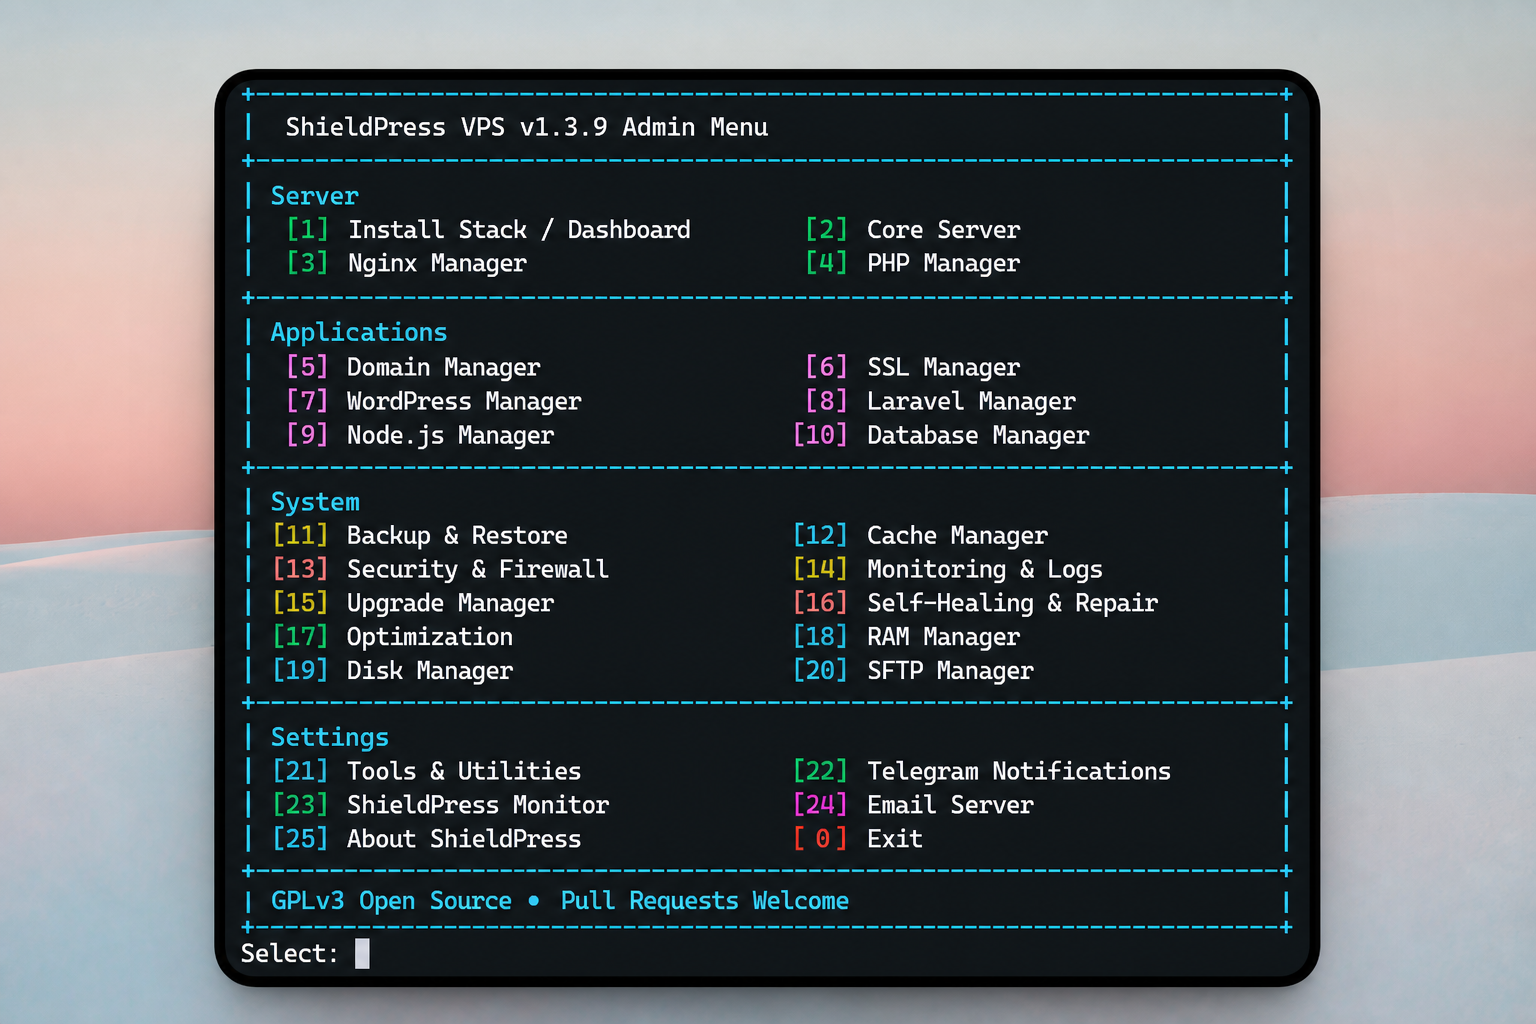
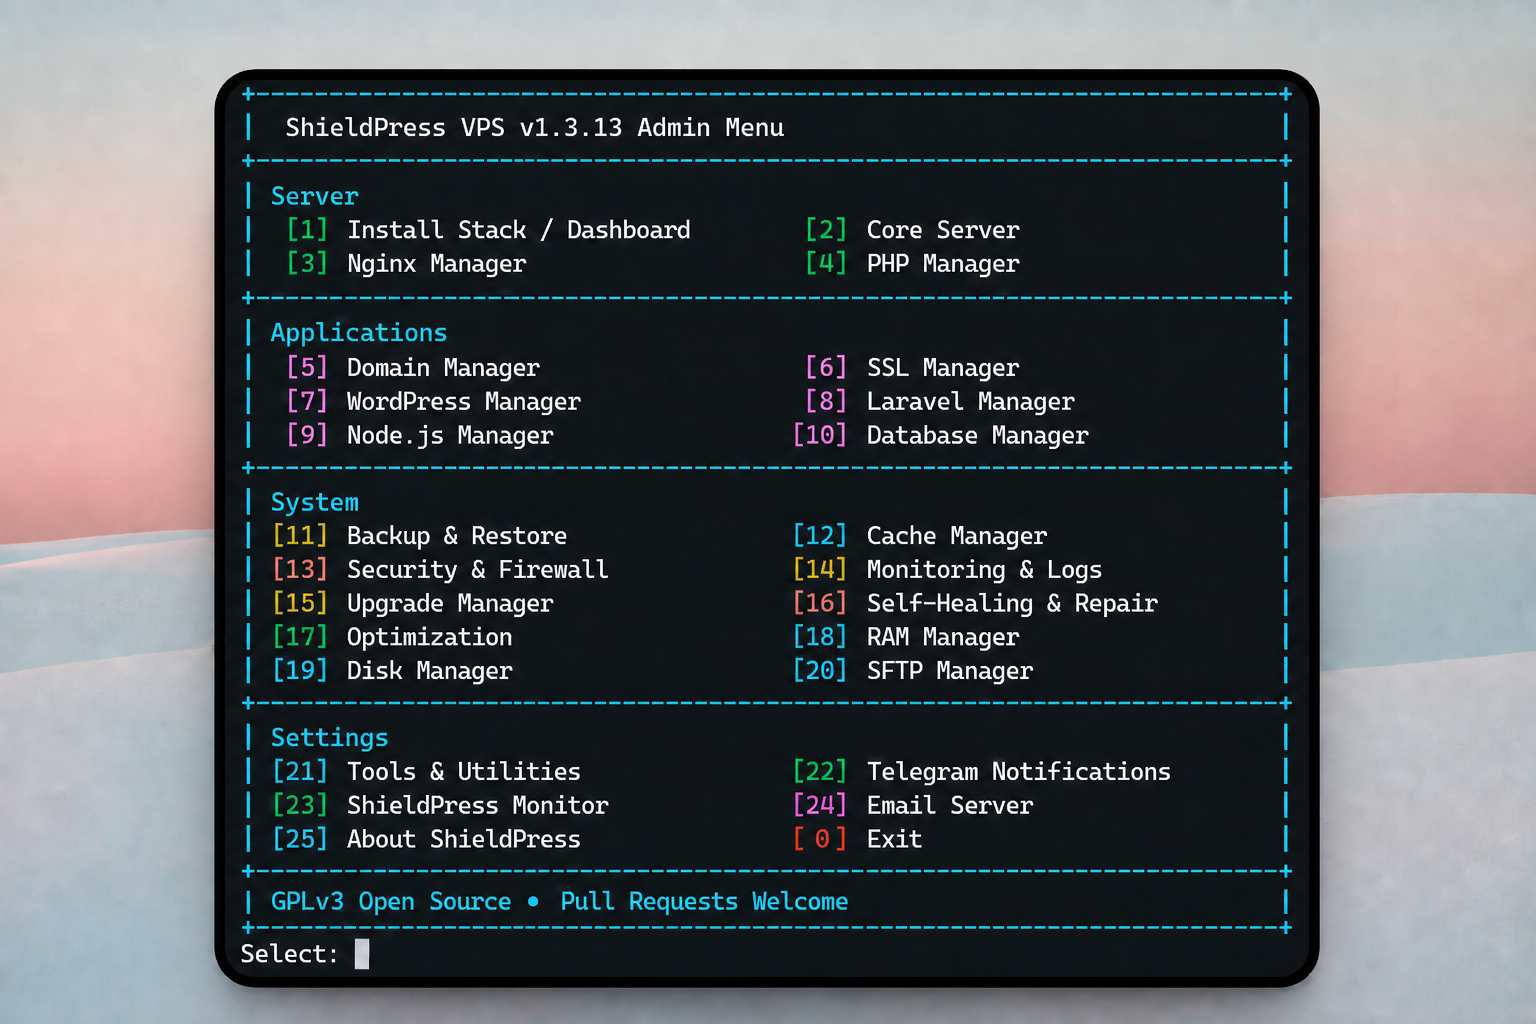
Release ShieldPress VPS v1.3.13
Publish English release metadata and synchronize the version, changelog, and project screenshot.

diff --git a/CHANGELOG.md b/CHANGELOG.md
@@ -1,5 +1,16 @@
 # ShieldPress VPS - Changelog
 
+## v1.3.13 — 2026-08-17 — GitHub-powered installation and updates
+
+- Added a GitHub-backed update source for version checks and source packages.
+- Added support for installation through a custom-domain bootstrap script while downloading the source from GitHub.
+- Added release asset, release tag, and `main` branch package fallbacks.
+- Added optional SHA-256 verification for release packages.
+- Updated the public project screenshot and release metadata.
+- Kept all README and version information in English.
+
+---
+
 ## v1.3.9 — 2026-08-17 — Public GPLv3 repository layout, GitHub update source
 
 - Published repository under GPLv3 with `LICENSE`, `CONTRIBUTING.md`, and `SECURITY.md`.

diff --git a/README.md b/README.md
@@ -4,7 +4,8 @@
 
 # ShieldPress VPS
 
-**Current version:** `1.3.9`  
+**Current version:** `1.3.13`
+
 **License:** [GPLv3](LICENSE) · Pull requests welcome — see [CONTRIBUTING.md](CONTRIBUTING.md)
 
 ShieldPress VPS is a terminal-based server management toolkit for Linux VPS, focused on deploying websites, managing domains, SSL, WordPress, Laravel, Node.js, databases, cache, backup, security, performance optimization, email and system monitoring.
